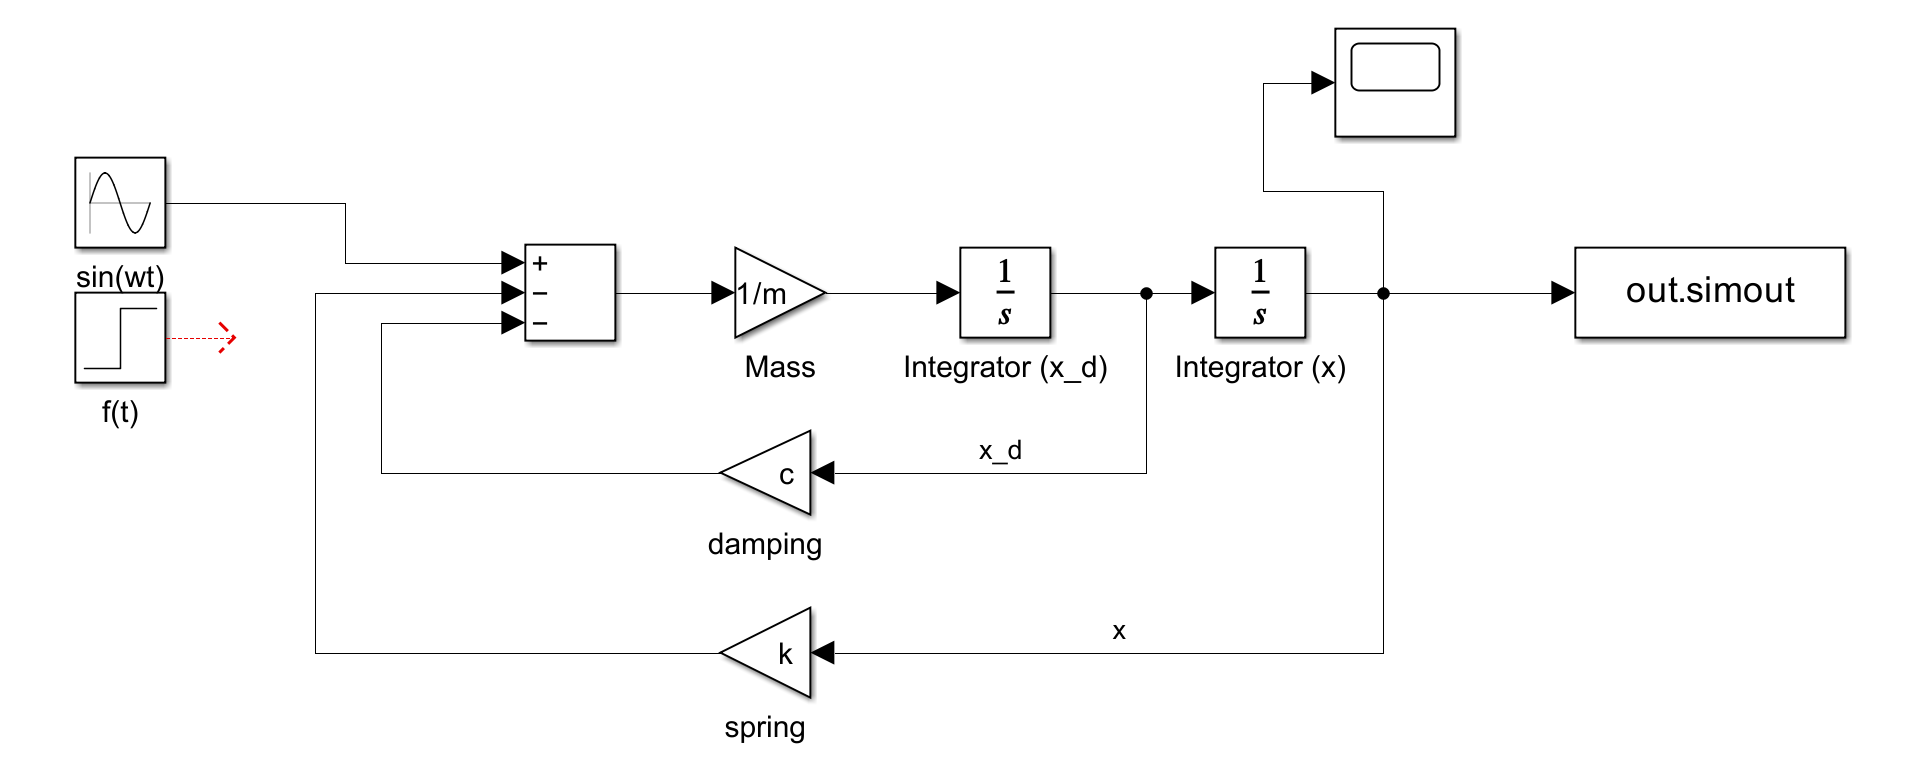
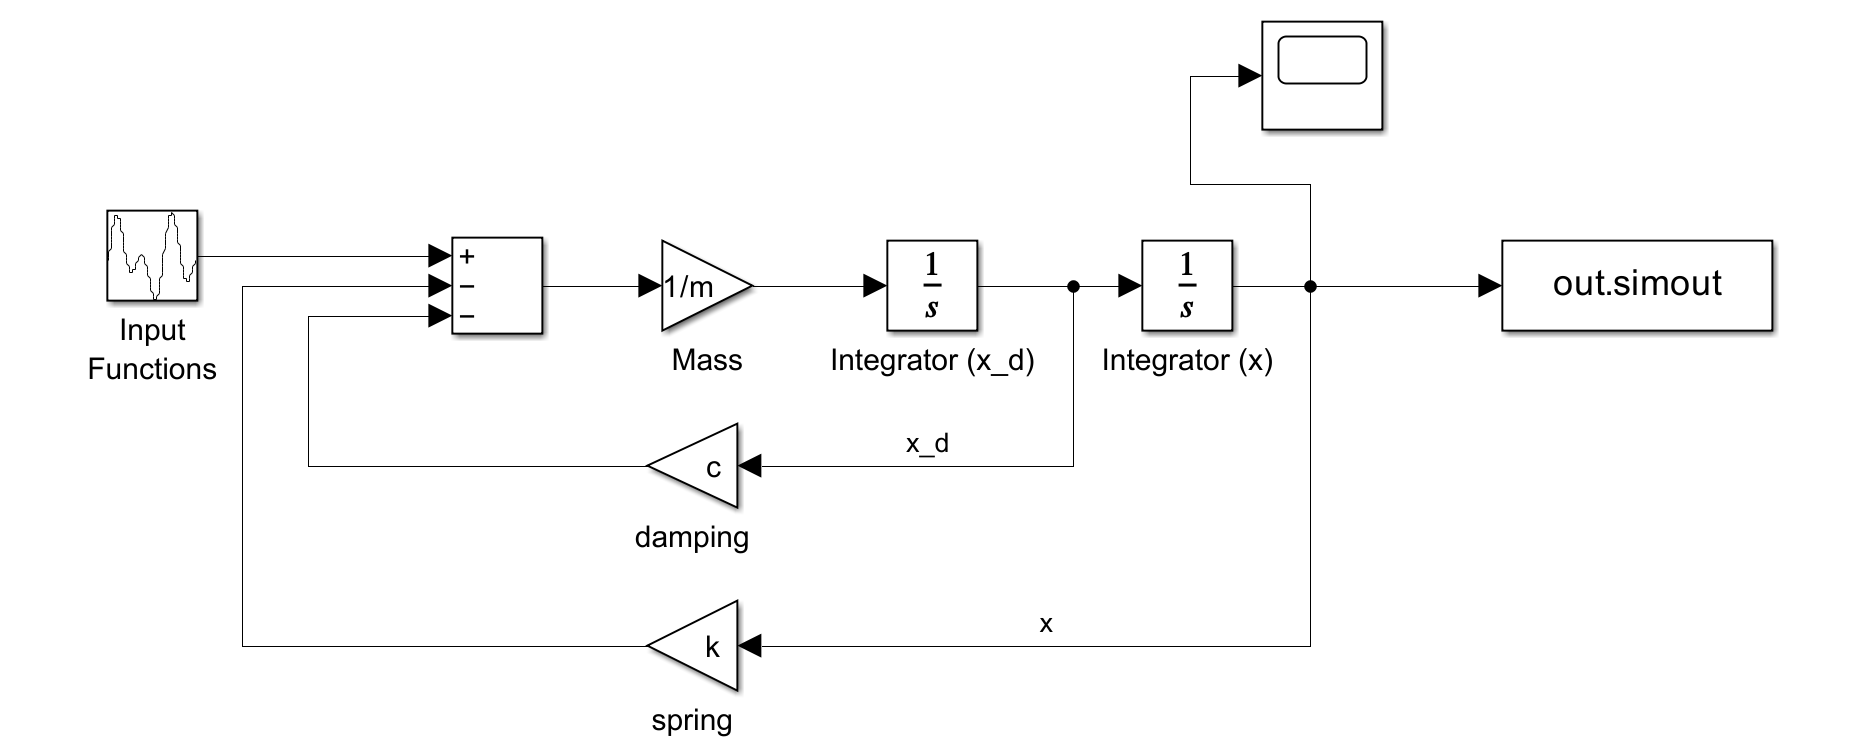
Replaced function blocks

diff --git a/Assignment 1/Problem 1/AC1P1_script.m b/Assignment 1/Problem 1/AC1P1_script.m
@@ -1,8 +1,15 @@
 vars = 1;
-input = "harmonic";
-load_system("AC1P1_model.slx")
+model = 'AC1P1_model';
+block = [model '/Input Functions'];
+paramName = 'SelectedSignal';
+load_system(model);
+
+input = "harmonic";    % accepts "step" or "harmonic"
+
 while vars < 5
     if input == "step"
+
+        set_param(block, paramName, num2str(1));
         switch vars
             case 1
                 m = 5; c = 100; k = 125;
@@ -13,7 +20,10 @@ while vars < 5
             case 4
                 m = 5; c = 1; k = 125;
         end
+
     elseif input == "harmonic"
+
+        set_param(block, paramName, num2str(2));
         switch vars
             case 1
                 m = 5; c = 0; k = 125; w = 1;
@@ -24,9 +34,10 @@ while vars < 5
             case 4
                 m = 5; c = 5; k = 125; w = 5;
         end
+
     end
 
-    out = sim("AC1P1_model.slx");
+    out = sim(model);
     data = out.simout;
     x = data.Data;
     t = data.Time;
@@ -46,4 +57,4 @@ end
 
 legend('Case 1', 'Case 2', 'Case 3', 'Case 4');
 xlabel('Time'); ylabel('Position'); grid on;
-close_system("AC1P1_model.slx")
+close_system(model,0);
